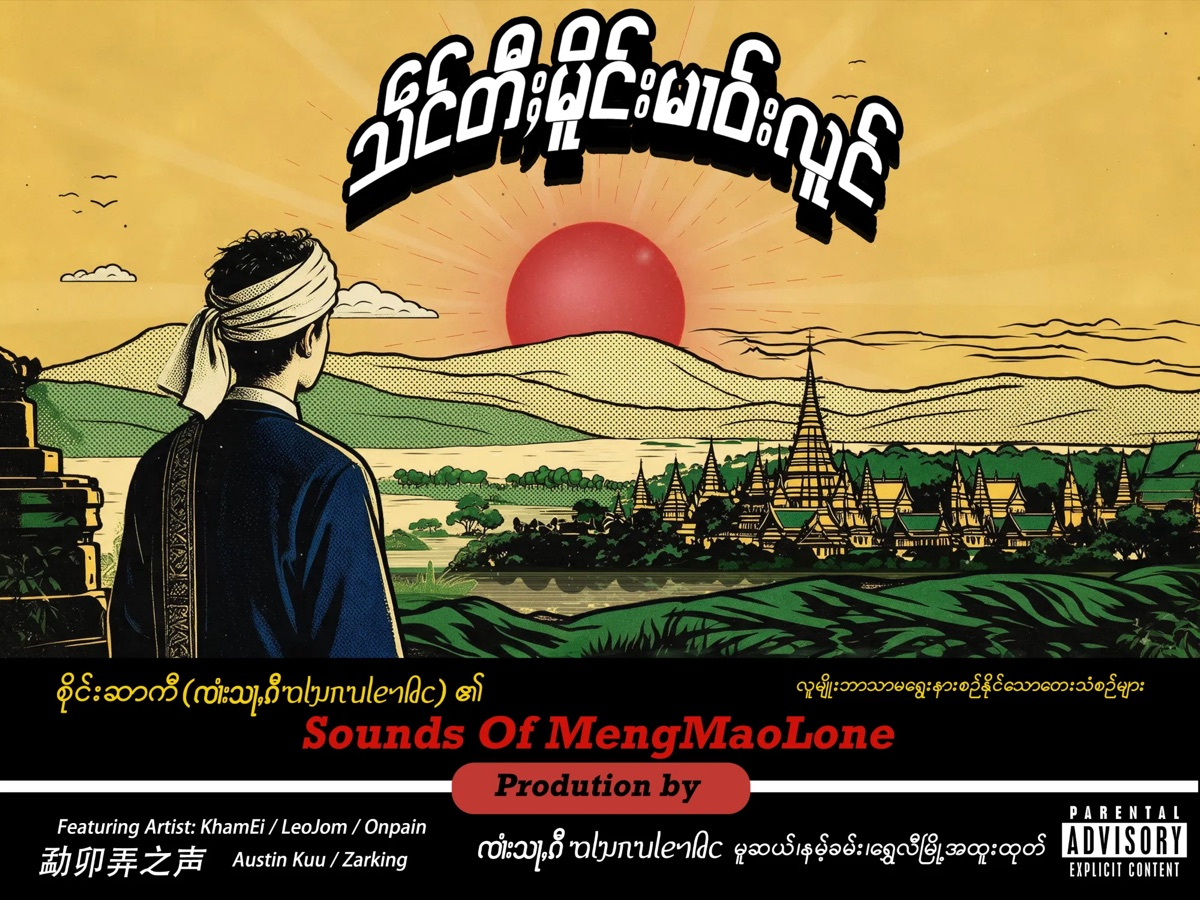
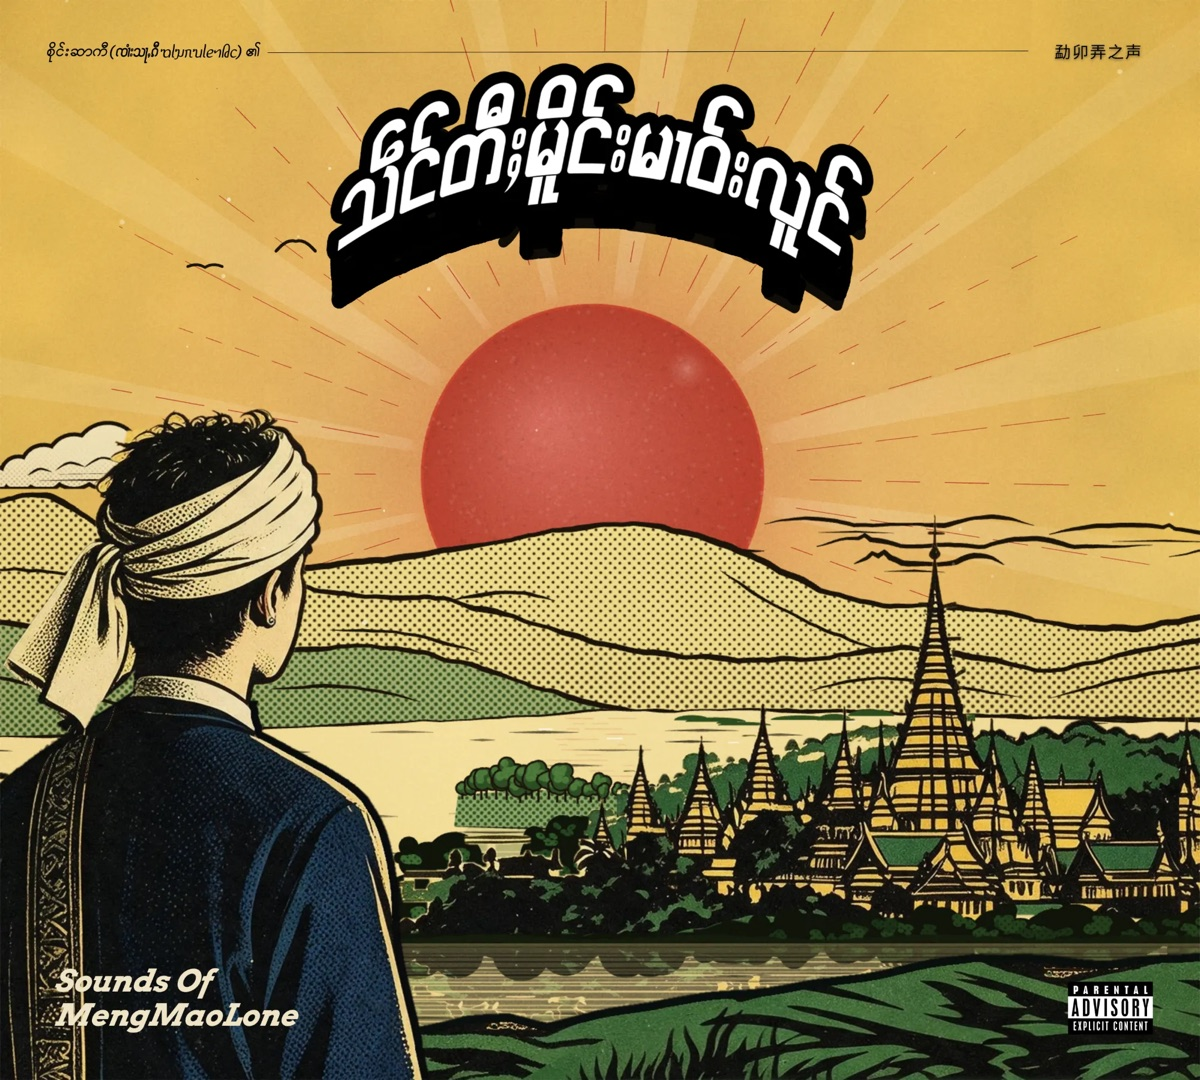
Add files via upload

diff --git a/index.html b/index.html
@@ -73,7 +73,7 @@ h1{
 }
 .track{display:flex; transition:transform .9s cubic-bezier(.65,0,.35,1)}
 .slide{flex:0 0 100%; margin:0}
-.slide img{width:100%; height:auto; aspect-ratio:4/3; object-fit:cover; -webkit-user-drag:none; user-select:none}
+.slide img{width:100%; height:auto; aspect-ratio:10/9; object-fit:cover; -webkit-user-drag:none; user-select:none}
 .g-ctrl{display:flex; justify-content:center; align-items:center; gap:12px; margin-top:22px}
 .pips{display:flex; align-items:center; gap:10px; height:44px; padding:0 18px; border-radius:980px; background:var(--bg-alt)}
 .pip{
@@ -119,12 +119,6 @@ h2{margin:0 8px 22px; font-size:clamp(28px,6.6vw,40px); font-weight:700; letter-
 .chev{width:8px; height:13px; flex:none; color:var(--text-2); opacity:.6}
 .off{opacity:.45; pointer-events:none}
 
-.tg{margin-top:28px; padding:26px 22px; border-radius:18px; background:var(--group); display:flex; align-items:center; gap:16px; flex-wrap:wrap}
-.tg-text{flex:1 1 220px}
-.tg h3{margin:0; font-size:21px; font-weight:700; letter-spacing:-.01em}
-.tg p{margin:4px 0 0; font-size:15px; color:var(--text-2)}
-.tg a{padding:10px 20px; border-radius:980px; background:var(--sun); color:var(--on-sun); font-size:15px; font-weight:500; text-decoration:none; white-space:nowrap}
-.tg a.off{background:var(--sep); color:var(--text-2)}
 
 footer{padding:28px 20px 36px; text-align:center; font-size:12px; color:var(--text-2); background:var(--bg-alt); border-top:1px solid var(--sep)}
 
@@ -160,8 +154,7 @@ a:focus-visible,button:focus-visible{outline:2px solid var(--sun); outline-offse
   h2{margin:0 0 24px; font-size:32px}
   .row-in{min-height:68px}
   .row:hover{background:var(--sep)}
-  .cta:hover,.tg a:hover{background:var(--sun-hover)}
-  .tg a.off:hover{background:var(--sep)}
+  .cta:hover{background:var(--sun-hover)}
   footer{border-top:none}
 }
 </style>
@@ -185,8 +178,8 @@ a:focus-visible,button:focus-visible{outline:2px solid var(--sun); outline-offse
 <div class="art gallery-wrap" id="gallery-wrap">
   <div class="gallery" id="gallery" aria-roledescription="carousel">
     <div class="track" id="track">
-      <figure class="slide"><img src="covers/cover-1.webp" width="2000" height="1500" alt="" fetchpriority="high"></figure>
-      <figure class="slide"><img src="covers/cover-2.webp" width="2000" height="1500" alt="" decoding="async"></figure>
+      <figure class="slide"><img src="covers/front.webp" width="2000" height="1800" alt="" fetchpriority="high"></figure>
+      <figure class="slide"><img src="covers/back.webp" width="2000" height="1800" alt="" decoding="async"></figure>
     </div>
   </div>
   <div class="g-ctrl">
@@ -208,14 +201,6 @@ a:focus-visible,button:focus-visible{outline:2px solid var(--sun); outline-offse
   <div class="inner">
     <h2 data-t="listenTitle"></h2>
     <ul class="group" id="links"></ul>
-
-    <div class="tg">
-      <div class="tg-text">
-        <h3 data-t="tgTitle"></h3>
-        <p data-t="tgSub"></p>
-      </div>
-      <a id="tg-btn"></a>
-    </div>
   </div>
 </section>
 </div>
@@ -236,7 +221,6 @@ const LINKS = [
   { zh:"Apple Music", en:"Apple Music",        url:"https://music.apple.com/album/sounds-of-mengmaolone/6832990628", icon:"icons/applemusic.png", color:"#FA5C70" },
   { zh:"QQ 音乐",     en:"QQ Music",           url:"https://c6.y.qq.com/base/fcgi-bin/u?__=cegukIdjqWo2", icon:"icons/qqmusic.png",    color:"#31C27C" }
 ];
-const TELEGRAM = "";   // 例如 https://t.me/你的群组
 
 /* 文案：中文 / 英文 */
 const TEXT = {
@@ -247,11 +231,7 @@ const TEXT = {
     intro:"瑞丽江的水，流了 2000 多年。<br><br>它见过勐卯弄的王宫与繁花，也见过战火、离散，和快要被遗忘的文字。这张专辑，是我用傣语写给这片土地的歌。<br><br>我唱祖先的伤痕，也唱泼水节的笑声；唱田埂上的晨雾、寺院里的诵经，也唱爱过的人和碎过的心。我还唱给妈妈听：十一岁那年我想要的机甲，你一直记着。现在我的声音终于传到了很远的地方，你却再也听不见了。<br><br>有人等着看我跌倒，可我身体里流着傣家的血，停不下来。<br><br>这不是翻唱歌曲，是一个傣家孩子替勐卯弄重新开口。<br><strong>这是勐卯弄。</strong><br><br>非常感谢你支持实体专辑。",
     listenTitle:"选择平台收听",
     soon:"即将上线",
-    tgTitle:"Telegram 粉丝群",
-    tgSub:"在群里下载整张专辑的离线 MP3。",
-    tgJoin:"加入群组",
-    tgSoon:"即将开放",
-    alts:["专辑封面：落日下眺望佛塔与河流的背影","专辑背封：月夜下的勐卯与 12 首曲目"],
+    alts:["专辑封面：落日下眺望佛塔与河流的背影","专辑背封：月夜下的勐卯与 12 首曲目列表"],
     slide:"第 {n} 张", pause:"暂停轮播", play:"播放轮播",
     rights:"保留所有权利。"
   },
@@ -262,10 +242,6 @@ const TEXT = {
     intro:"The Shweli River has flowed for more than 2,000 years.<br><br>It has seen the palaces and blossoms of Mengmaolone, and it has seen war, scattering, and a written script close to being forgotten. This album is my songs to this land, written in the Dai language.<br><br>I sing of my ancestors’ scars and of laughter at the Water-Splashing Festival; of morning mist over the paddy ridges and chanting in the temple; of the people I loved and the heart that broke. And I sing for my mom: the mecha toy I wanted when I was eleven, you always remembered. Now my voice has finally reached somewhere far away, and you can no longer hear it.<br><br>Some are waiting to watch me fall, but Dai blood runs in me, and I can’t stop.<br><br>This is not a cover album. It is a Dai kid giving Mengmaolone its voice again.<br><strong>This is Mengmaolone.</strong><br><br>Thank you so much for supporting the physical album.",
     listenTitle:"Choose your platform",
     soon:"Coming soon",
-    tgTitle:"Telegram fan group",
-    tgSub:"Download the full album as offline MP3s in the group.",
-    tgJoin:"Join the group",
-    tgSoon:"Opening soon",
     alts:["Album cover: a figure watching the sun set over pagodas and a river","Back cover: Mengmao under a full moon, with the 12-song tracklist"],
     slide:"Image {n}", pause:"Pause slideshow", play:"Play slideshow",
     rights:"All rights reserved."
@@ -319,9 +295,6 @@ function render(lang){
     li.appendChild(a); ul.appendChild(li);
   });
 
-  const btn = document.getElementById("tg-btn");
-  if (TELEGRAM) { btn.href = TELEGRAM; btn.target = "_blank"; btn.rel = "noopener"; btn.className = ""; btn.textContent = T.tgJoin; }
-  else { btn.removeAttribute("href"); btn.className = "off"; btn.textContent = T.tgSoon; }
 
   document.querySelectorAll(".lang button").forEach(b => b.setAttribute("aria-pressed", String(b.dataset.lang === lang)));
 }
